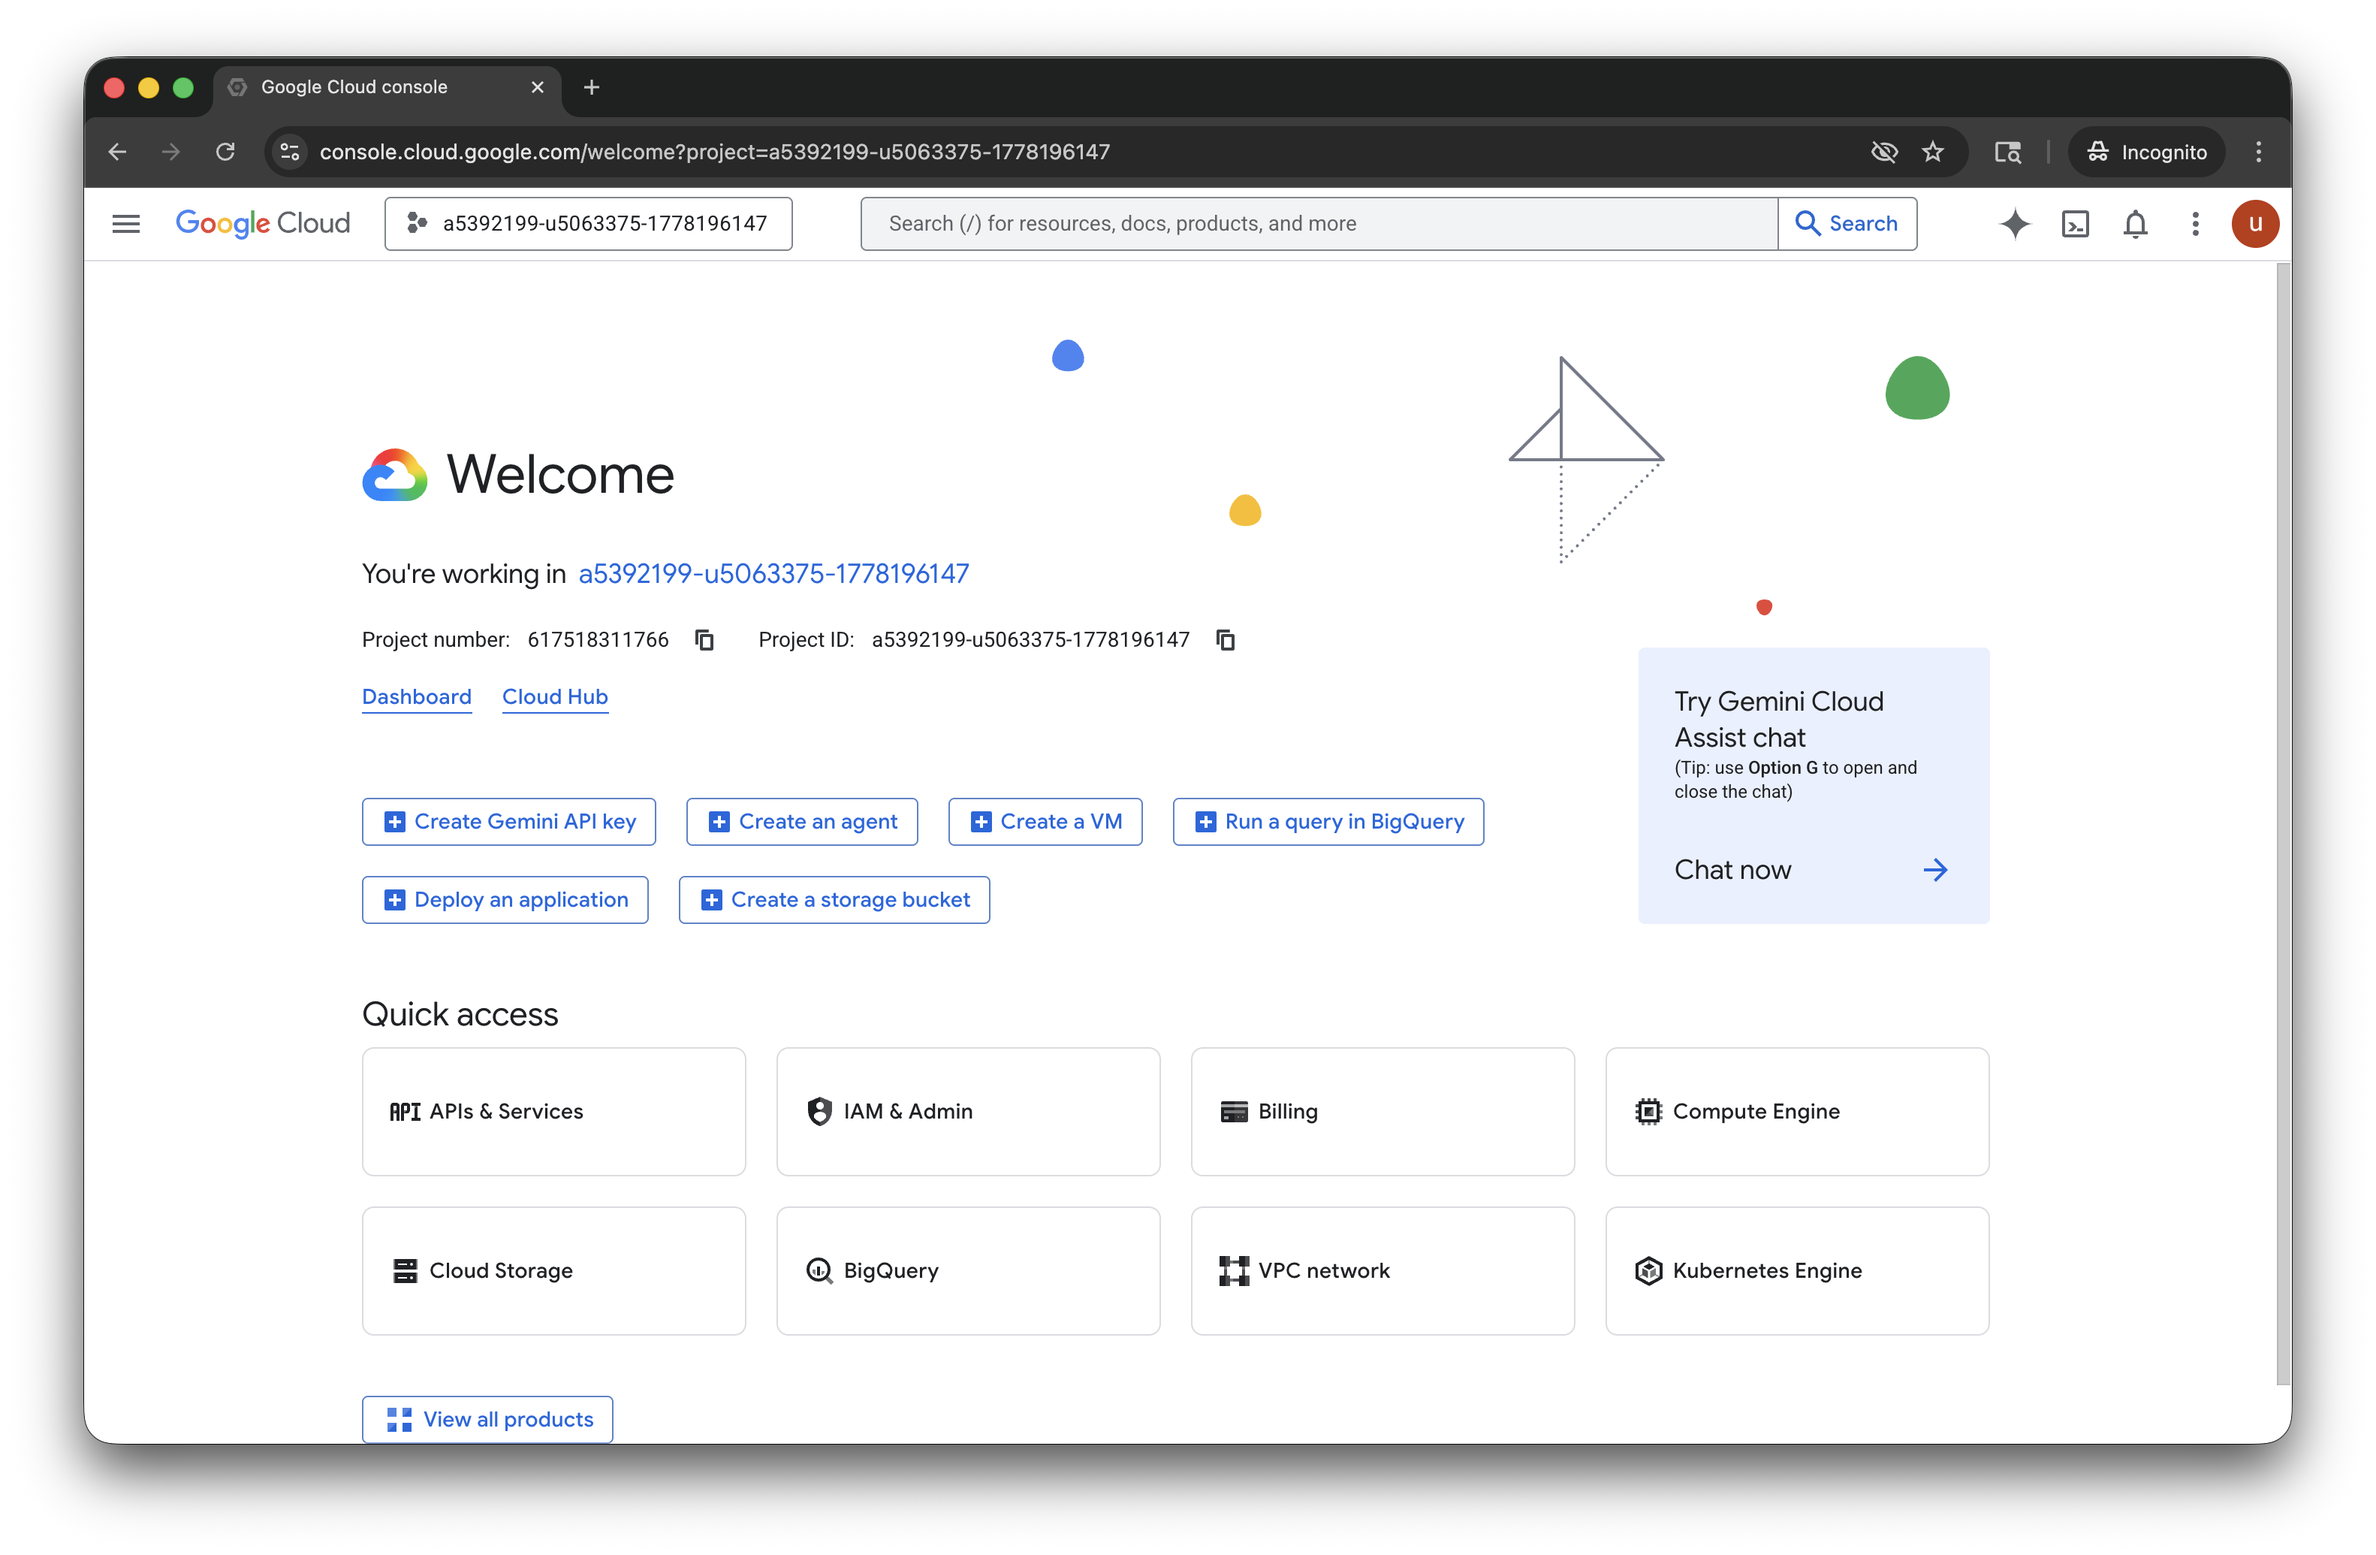
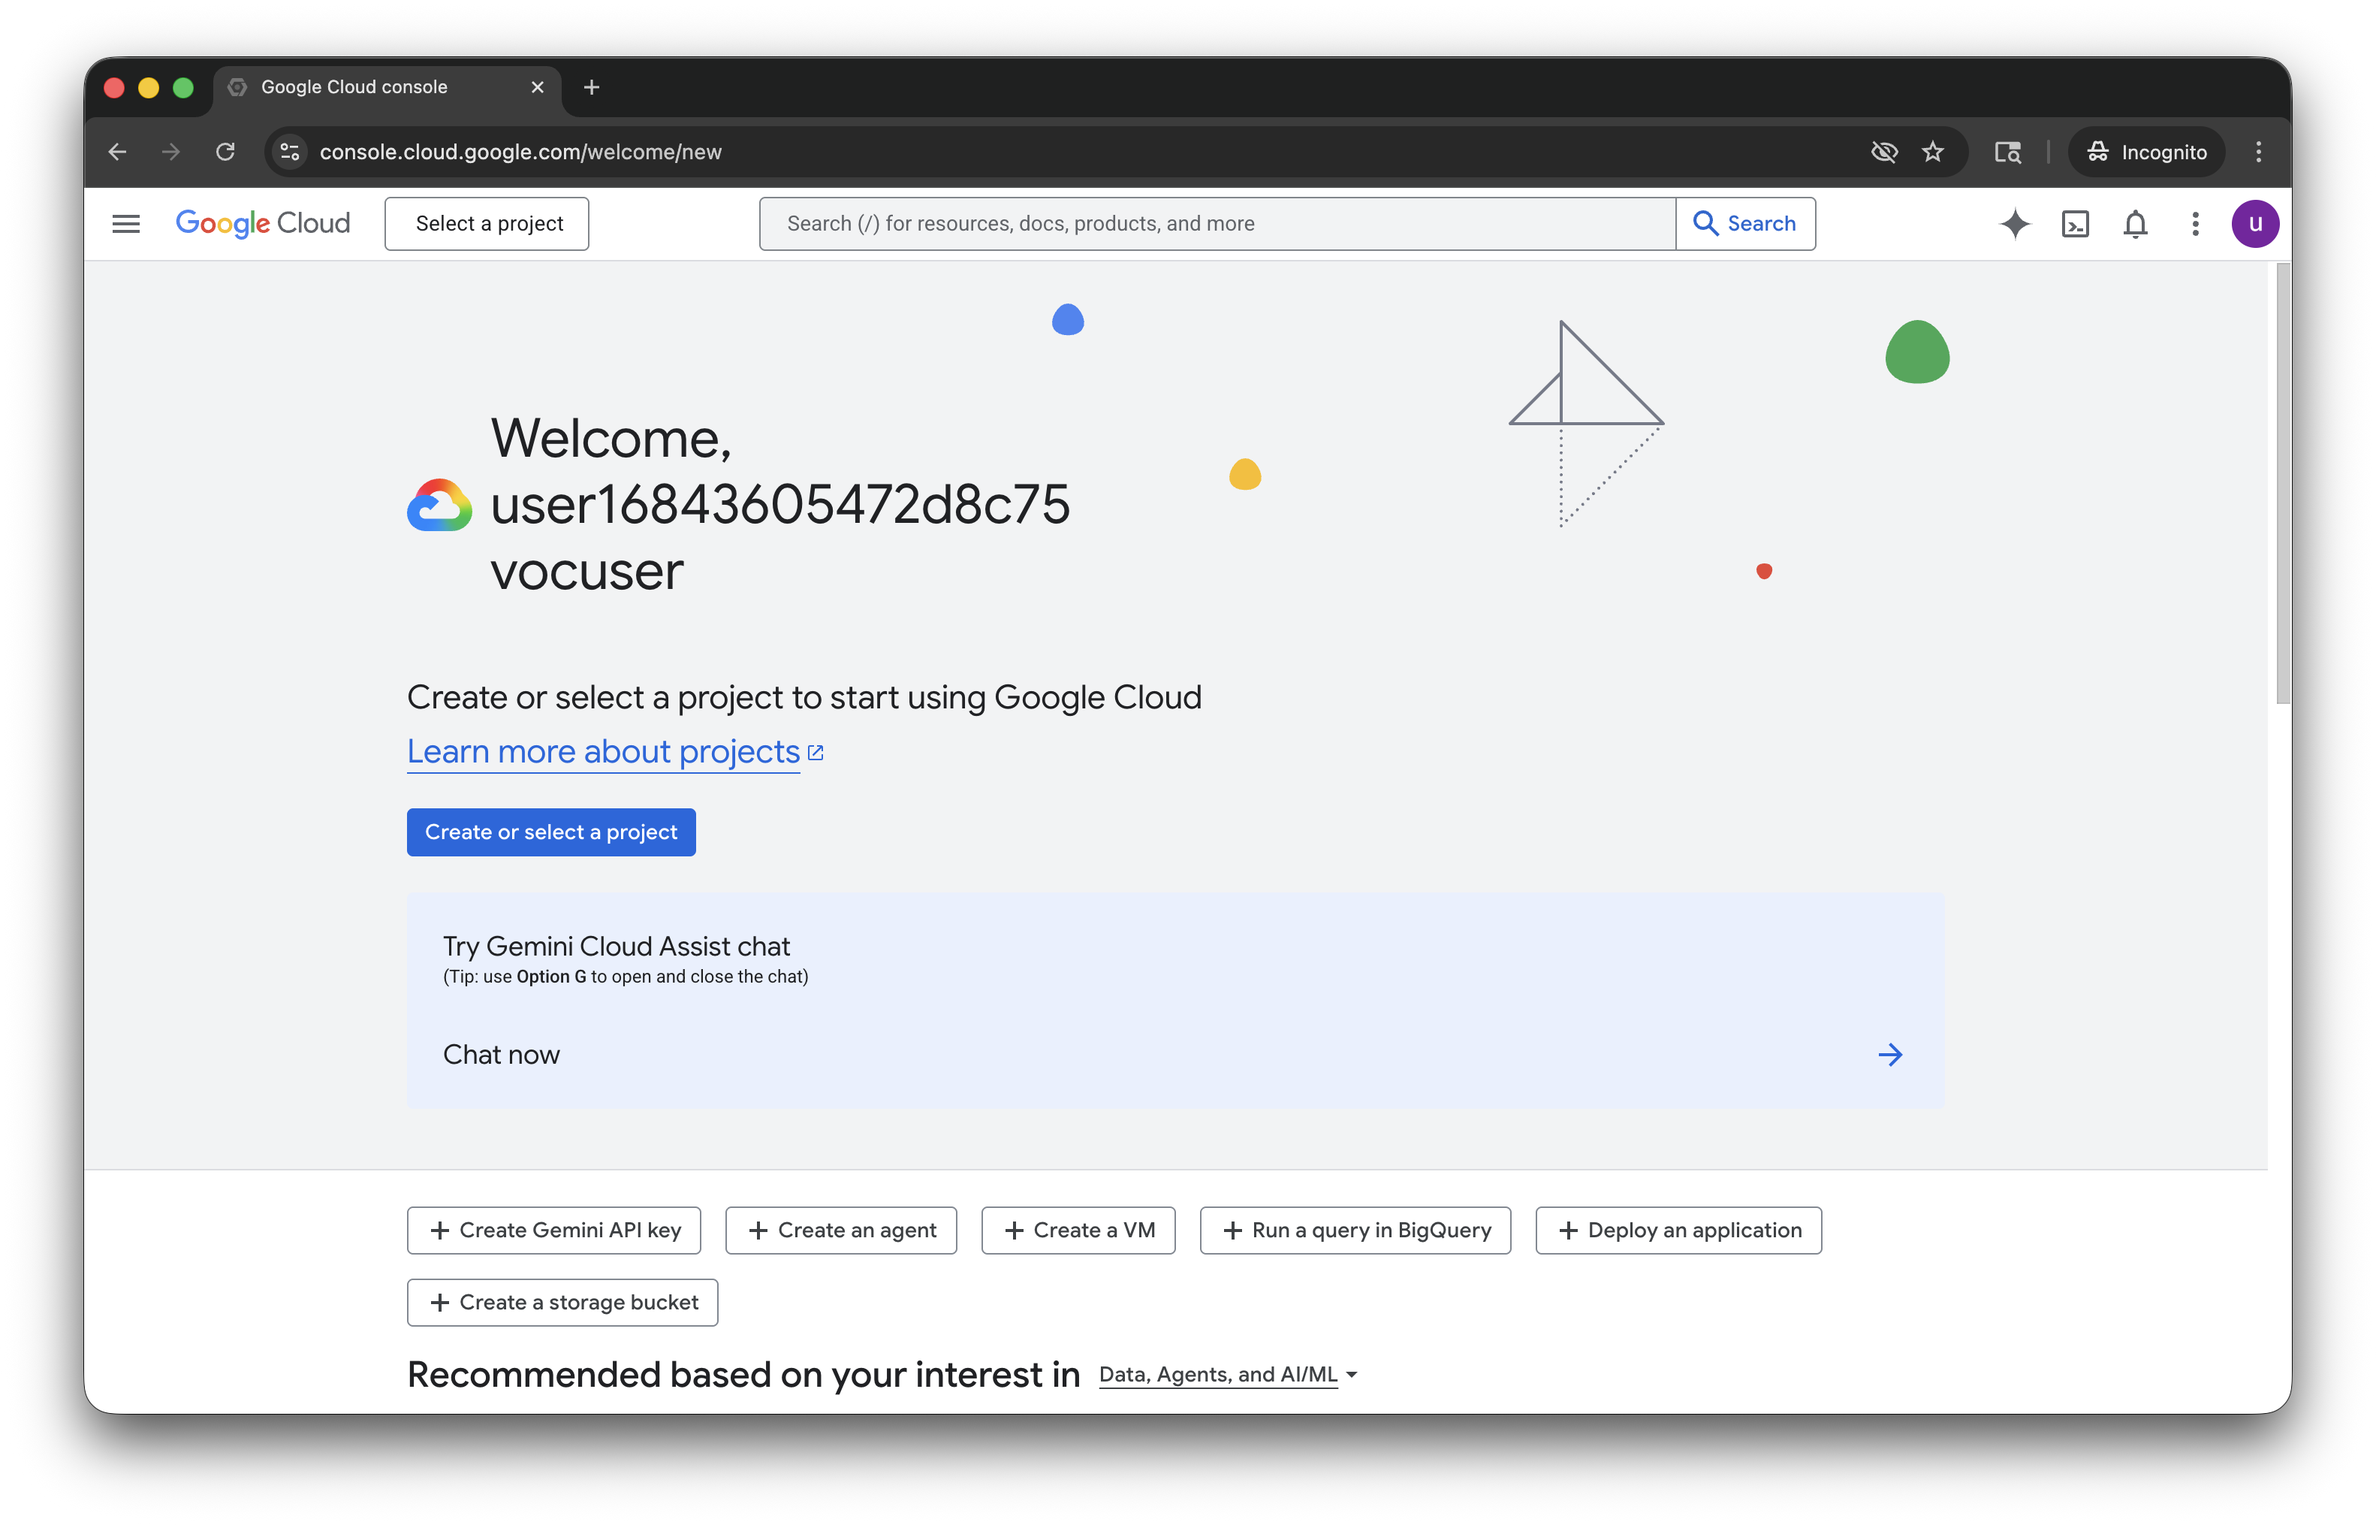
select project

diff --git a/Assignment 1 - Getting Started/Lab 1 - Sign In/README.md b/Assignment 1 - Getting Started/Lab 1 - Sign In/README.md
@@ -42,8 +42,16 @@ We're now in the Google Cloud Console.  Click the check box if you agree to the 
 
 ![](images/09.png)
 
-Now you're all set, logged into a Google Cloud account.
+Now we're logged in.  Click "Select a project" at the top.
 
 ![](images/10.png)
+
+You should see one project.  Select that.
+
+![](images/11.png)
+
+Now you're all set, logged into a Google Cloud account.
+
+![](images/12.png)
 
 In the next lab we'll deploy Neo4j.
